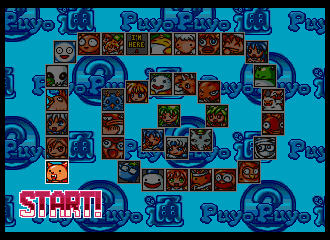
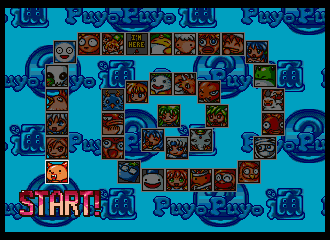
Saturn START!: colour-cycle layout fitted to the original
Arcs converging on the bottom middle with a wide pale core and 12 streaks,
dark outline and drop shadow, so the game's palette cycle flows inward like
the Japanese banner.

diff --git a/tools/saturn_ui.py b/tools/saturn_ui.py
@@ -3,7 +3,7 @@
 Milestone C: translates all 23 H_PUYODT.BIN VDP2 menus/dialogs, dynamic Rule Editor hardness
 labels (H_PUYODT[0]), save-slot labels (H_PUYODT[77]/[79]), and Character Select START! banner
 (DEMO_G02[12..13]) with zero /0;1 edits and strict VDP2 VRAM tile-count preservation."""
-import functools, struct
+import functools, math, struct
 import font, gfx, labels
 
 _glyphs = functools.lru_cache(maxsize=None)(font.font)
@@ -499,16 +499,27 @@ def apply_demo_g02_start(tiles, tmap):
     m = [a + [0, 0] + b for a, b in zip(m_word, m_bang)]
     mw, mh = len(m[0]), len(m)
     img = [[0] * 96 for _ in range(40)]
-    x0, y0 = (96 - mw) // 2, (40 - mh) // 2
-    # Vertical gradient fill (12->11->10->9), dark inner edge (5), bright white bubble outline (15)
-    shades = (12, 11, 10, 9)
+    x0, y0 = (96 - mw) // 2 - 1, (40 - mh) // 2 - 1     # 1 px up-left to leave room for the shadow
+    # The game cycles colours 5..12 (each colour moves to the next index), so the index layout is the
+    # animation. As in the original (fitted to its pixels): arcs converging on the bottom middle, with
+    # distance squeezed 2.5x sideways, 3.5 px bands rising toward a flat core of index 12 (the wide
+    # pale base), plus 12 narrow streaks fanning out of the core, faded in just outside it.
+    ox, oy = x0 + mw * 0.52, y0 + mh * 0.83
     for y, row in enumerate(m):
-        c = shades[min(3, y * 4 // mh)]
         for x, v in enumerate(row):
             if v:
-                img[y0 + y][x0 + x] = c
-    img = labels.ring(img, 5, {9, 10, 11, 12})
-    img = labels.ring(img, 15, {5, 9, 10, 11, 12})
+                dx, dy = (x0 + x - ox) / 2.5, y0 + y - oy
+                d = math.hypot(dx, dy)
+                fade = min(1.0, max(0.0, (d - 10.5) / 7))
+                streak = 1.8 * fade * (max(0.0, math.cos(12 * math.atan2(dy, dx))) ** 5 * 2 - 0.5)
+                img[y0 + y][x0 + x] = 5 + int(min(7, max(0, 10 - d / 3.5 + streak)))
+    img = labels.ring(img, 14, set(range(5, 13)))       # dark outline (14), as on the original
+    shadow = [r[:] for r in img]                         # and a 1 px drop shadow down-right
+    for y in range(39):
+        for x in range(95):
+            if img[y][x] and not img[y + 1][x + 1]:
+                shadow[y + 1][x + 1] = 14
+    img = shadow
 
     pool = list(range(0x19, 0x50))  # 55 exclusive tiles (preserves bg 0x01..0x18 & portraits 0x50..0x19c)
     _pack_img(tiles, tmap, 0, 12, 5, img, pool, {bytes(32): 0})
